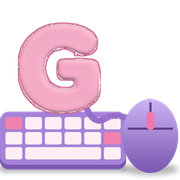
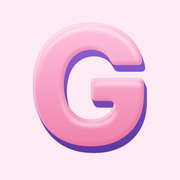
Site ikonu: iki renkli kabartma G, ana ekranda 'Gamika' adi
Claude-Session: https://claude.ai/code/session_01PwMLELiRhgJnrHFSFggeDV

diff --git a/index.html b/index.html
@@ -6,7 +6,7 @@
 <meta name="viewport" content="width=device-width, initial-scale=1.0">
 <title>Gamika — Kadınlara Özel Gaming Mousepad</title>
 <meta name="description" content="Gamika: kadın oyunculara özel gaming mousepad modelleri. Dark, Minimal ve Candy serileri, ücretsiz kargo. Figür, bilek desteği ve switch çok yakında.">
-<link rel="icon" href="/favicon.ico" sizes="any"><link rel="icon" type="image/png" sizes="32x32" href="/favicon-32.png"><link rel="apple-touch-icon" href="/apple-touch-icon.png">
+<link rel="icon" href="/favicon.ico" sizes="any"><link rel="icon" type="image/png" sizes="32x32" href="/favicon-32.png"><link rel="apple-touch-icon" href="/apple-touch-icon.png"><meta name="apple-mobile-web-app-title" content="Gamika"><meta name="application-name" content="Gamika">
 <link rel="canonical" href="https://gamikatr.com/">
 <meta name="google-site-verification" content="WuOoVKOpZaBDW0YusW3PenfH8zQiW4ZYmoAquZrPsTA" />
 <meta name="theme-color" content="#F9D5E5">

diff --git a/degerlendir.html b/degerlendir.html
@@ -2,7 +2,7 @@
 <html lang="tr"><head><meta charset="utf-8"><meta name="viewport" content="width=device-width,initial-scale=1">
 <title>Ürünü Değerlendir | Gamika</title>
 <meta name="robots" content="noindex">
-<link rel="icon" href="/favicon.ico" sizes="any"><link rel="icon" type="image/png" sizes="32x32" href="/favicon-32.png"><link rel="apple-touch-icon" href="/apple-touch-icon.png">
+<link rel="icon" href="/favicon.ico" sizes="any"><link rel="icon" type="image/png" sizes="32x32" href="/favicon-32.png"><link rel="apple-touch-icon" href="/apple-touch-icon.png"><meta name="apple-mobile-web-app-title" content="Gamika"><meta name="application-name" content="Gamika">
 <style>
 :root{--bg:#FFF9FB;--tx:#2A1B2E;--mu:#A67B9B;--pk:#E0709A;--ac:#9B4DE0;--bd:#F3EAFE;--card:#fff}
 *{box-sizing:border-box}body{margin:0;background:linear-gradient(180deg,#F3EAFE,#FDEBF3 50%,#FFF9FB);min-height:100vh;color:var(--tx);font:16px/1.6 system-ui,Segoe UI,Arial,sans-serif}

diff --git a/gizlilik.html b/gizlilik.html
@@ -5,7 +5,7 @@
 <meta name="viewport" content="width=device-width, initial-scale=1.0">
 <title>Gizlilik Politikası ve Aydınlatma Metni — Gamika</title>
 <meta name="description" content="GAMİKA gizlilik politikası ve kişisel verilerin işlenmesine ilişkin aydınlatma metni.">
-<link rel="icon" href="/favicon.ico" sizes="any"><link rel="icon" type="image/png" sizes="32x32" href="/favicon-32.png"><link rel="apple-touch-icon" href="/apple-touch-icon.png">
+<link rel="icon" href="/favicon.ico" sizes="any"><link rel="icon" type="image/png" sizes="32x32" href="/favicon-32.png"><link rel="apple-touch-icon" href="/apple-touch-icon.png"><meta name="apple-mobile-web-app-title" content="Gamika"><meta name="application-name" content="Gamika">
 <link rel="canonical" href="https://gamikatr.com/gizlilik.html">
 <link href="https://fonts.googleapis.com/css2?family=Fraunces:wght@600;700&family=Inter:wght@300;400;500;600&display=swap" rel="stylesheet">
 <style>

diff --git a/mesafeli-satis.html b/mesafeli-satis.html
@@ -1,5 +1,5 @@
 <!doctype html>
-<html lang="tr"><head><meta charset="utf-8"><link rel="icon" href="/favicon.ico" sizes="any"><link rel="icon" type="image/png" sizes="32x32" href="/favicon-32.png"><link rel="apple-touch-icon" href="/apple-touch-icon.png"><meta name="viewport" content="width=device-width,initial-scale=1">
+<html lang="tr"><head><meta charset="utf-8"><link rel="icon" href="/favicon.ico" sizes="any"><link rel="icon" type="image/png" sizes="32x32" href="/favicon-32.png"><link rel="apple-touch-icon" href="/apple-touch-icon.png"><meta name="apple-mobile-web-app-title" content="Gamika"><meta name="application-name" content="Gamika"><meta name="viewport" content="width=device-width,initial-scale=1">
 <title>Mesafeli Satış Sözleşmesi | Gamika</title>
 <style>
 :root{--bg:#fdf7fc;--tx:#2a2233;--mu:#6e6580;--ac:#b455d6;--pk:#e8559c;--bd:#eadff0;--card:#fff}

diff --git a/kargo-iade.html b/kargo-iade.html
@@ -1,5 +1,5 @@
 <!doctype html>
-<html lang="tr"><head><meta charset="utf-8"><link rel="icon" href="/favicon.ico" sizes="any"><link rel="icon" type="image/png" sizes="32x32" href="/favicon-32.png"><link rel="apple-touch-icon" href="/apple-touch-icon.png"><meta name="viewport" content="width=device-width,initial-scale=1">
+<html lang="tr"><head><meta charset="utf-8"><link rel="icon" href="/favicon.ico" sizes="any"><link rel="icon" type="image/png" sizes="32x32" href="/favicon-32.png"><link rel="apple-touch-icon" href="/apple-touch-icon.png"><meta name="apple-mobile-web-app-title" content="Gamika"><meta name="application-name" content="Gamika"><meta name="viewport" content="width=device-width,initial-scale=1">
 <title>Kargo, Teslimat ve İade | Gamika</title>
 <style>
 :root{--bg:#fdf7fc;--tx:#2a2233;--mu:#6e6580;--ac:#b455d6;--pk:#e8559c;--bd:#eadff0;--card:#fff}

diff --git a/on-bilgilendirme.html b/on-bilgilendirme.html
@@ -1,5 +1,5 @@
 <!doctype html>
-<html lang="tr"><head><meta charset="utf-8"><link rel="icon" href="/favicon.ico" sizes="any"><link rel="icon" type="image/png" sizes="32x32" href="/favicon-32.png"><link rel="apple-touch-icon" href="/apple-touch-icon.png"><meta name="viewport" content="width=device-width,initial-scale=1">
+<html lang="tr"><head><meta charset="utf-8"><link rel="icon" href="/favicon.ico" sizes="any"><link rel="icon" type="image/png" sizes="32x32" href="/favicon-32.png"><link rel="apple-touch-icon" href="/apple-touch-icon.png"><meta name="apple-mobile-web-app-title" content="Gamika"><meta name="application-name" content="Gamika"><meta name="viewport" content="width=device-width,initial-scale=1">
 <title>Ön Bilgilendirme Formu | Gamika</title>
 <style>
 :root{--bg:#fdf7fc;--tx:#2a2233;--mu:#6e6580;--ac:#b455d6;--pk:#e8559c;--bd:#eadff0;--card:#fff}

diff --git a/sss.html b/sss.html
@@ -1,5 +1,5 @@
 <!doctype html>
-<html lang="tr"><head><meta charset="utf-8"><link rel="icon" href="/favicon.ico" sizes="any"><link rel="icon" type="image/png" sizes="32x32" href="/favicon-32.png"><link rel="apple-touch-icon" href="/apple-touch-icon.png"><meta name="viewport" content="width=device-width,initial-scale=1">
+<html lang="tr"><head><meta charset="utf-8"><link rel="icon" href="/favicon.ico" sizes="any"><link rel="icon" type="image/png" sizes="32x32" href="/favicon-32.png"><link rel="apple-touch-icon" href="/apple-touch-icon.png"><meta name="apple-mobile-web-app-title" content="Gamika"><meta name="application-name" content="Gamika"><meta name="viewport" content="width=device-width,initial-scale=1">
 <title>Sıkça Sorulan Sorular | Gamika</title>
 <style>
 :root{--bg:#fdf7fc;--tx:#2a2233;--mu:#6e6580;--ac:#b455d6;--pk:#e8559c;--bd:#eadff0;--card:#fff}

diff --git a/uyelik-sozlesmesi.html b/uyelik-sozlesmesi.html
@@ -1,5 +1,5 @@
 <!doctype html>
-<html lang="tr"><head><meta charset="utf-8"><link rel="icon" href="/favicon.ico" sizes="any"><link rel="icon" type="image/png" sizes="32x32" href="/favicon-32.png"><link rel="apple-touch-icon" href="/apple-touch-icon.png"><meta name="viewport" content="width=device-width,initial-scale=1">
+<html lang="tr"><head><meta charset="utf-8"><link rel="icon" href="/favicon.ico" sizes="any"><link rel="icon" type="image/png" sizes="32x32" href="/favicon-32.png"><link rel="apple-touch-icon" href="/apple-touch-icon.png"><meta name="apple-mobile-web-app-title" content="Gamika"><meta name="application-name" content="Gamika"><meta name="viewport" content="width=device-width,initial-scale=1">
 <title>Üyelik Sözleşmesi | Gamika</title>
 <style>
 :root{--bg:#fdf7fc;--tx:#2a2233;--mu:#6e6580;--ac:#b455d6;--pk:#e8559c;--bd:#eadff0;--card:#fff}

diff --git a/404.html b/404.html
@@ -1,5 +1,5 @@
 <!doctype html>
-<html lang="tr"><head><meta charset="utf-8"><link rel="icon" href="/favicon.ico" sizes="any"><link rel="icon" type="image/png" sizes="32x32" href="/favicon-32.png"><link rel="apple-touch-icon" href="/apple-touch-icon.png"><meta name="viewport" content="width=device-width,initial-scale=1">
+<html lang="tr"><head><meta charset="utf-8"><link rel="icon" href="/favicon.ico" sizes="any"><link rel="icon" type="image/png" sizes="32x32" href="/favicon-32.png"><link rel="apple-touch-icon" href="/apple-touch-icon.png"><meta name="apple-mobile-web-app-title" content="Gamika"><meta name="application-name" content="Gamika"><meta name="viewport" content="width=device-width,initial-scale=1">
 <title>Sayfa bulunamadı | Gamika</title>
 <style>
 :root{--bg:#fdf7fc;--tx:#2a2233;--mu:#6e6580;--ac:#b455d6;--pk:#e8559c;--bd:#eadff0;--card:#fff}

diff --git a/iletisim.html b/iletisim.html
@@ -1,5 +1,5 @@
 <!doctype html>
-<html lang="tr"><head><meta charset="utf-8"><link rel="icon" href="/favicon.ico" sizes="any"><link rel="icon" type="image/png" sizes="32x32" href="/favicon-32.png"><link rel="apple-touch-icon" href="/apple-touch-icon.png"><meta name="viewport" content="width=device-width,initial-scale=1">
+<html lang="tr"><head><meta charset="utf-8"><link rel="icon" href="/favicon.ico" sizes="any"><link rel="icon" type="image/png" sizes="32x32" href="/favicon-32.png"><link rel="apple-touch-icon" href="/apple-touch-icon.png"><meta name="apple-mobile-web-app-title" content="Gamika"><meta name="application-name" content="Gamika"><meta name="viewport" content="width=device-width,initial-scale=1">
 <title>İletişim | Gamika</title>
 <style>
 :root{--bg:#fdf7fc;--tx:#2a2233;--mu:#6e6580;--ac:#b455d6;--pk:#e8559c;--bd:#eadff0;--card:#fff}

diff --git a/yonetim/index.html b/yonetim/index.html
@@ -2,7 +2,7 @@
 <html lang="tr">
 <head>
 <meta name="robots" content="noindex, nofollow">
-<meta charset="utf-8"><link rel="icon" href="/favicon.ico" sizes="any"><link rel="icon" type="image/png" sizes="32x32" href="/favicon-32.png"><link rel="apple-touch-icon" href="/apple-touch-icon.png">
+<meta charset="utf-8"><link rel="icon" href="/favicon.ico" sizes="any"><link rel="icon" type="image/png" sizes="32x32" href="/favicon-32.png"><link rel="apple-touch-icon" href="/apple-touch-icon.png"><meta name="apple-mobile-web-app-title" content="Gamika"><meta name="application-name" content="Gamika">
 <meta name="viewport" content="width=device-width,initial-scale=1">
 <title>Gamika Yönetim</title>
 <link rel="stylesheet" href="https://cdnjs.cloudflare.com/ajax/libs/font-awesome/6.5.1/css/all.min.css">
